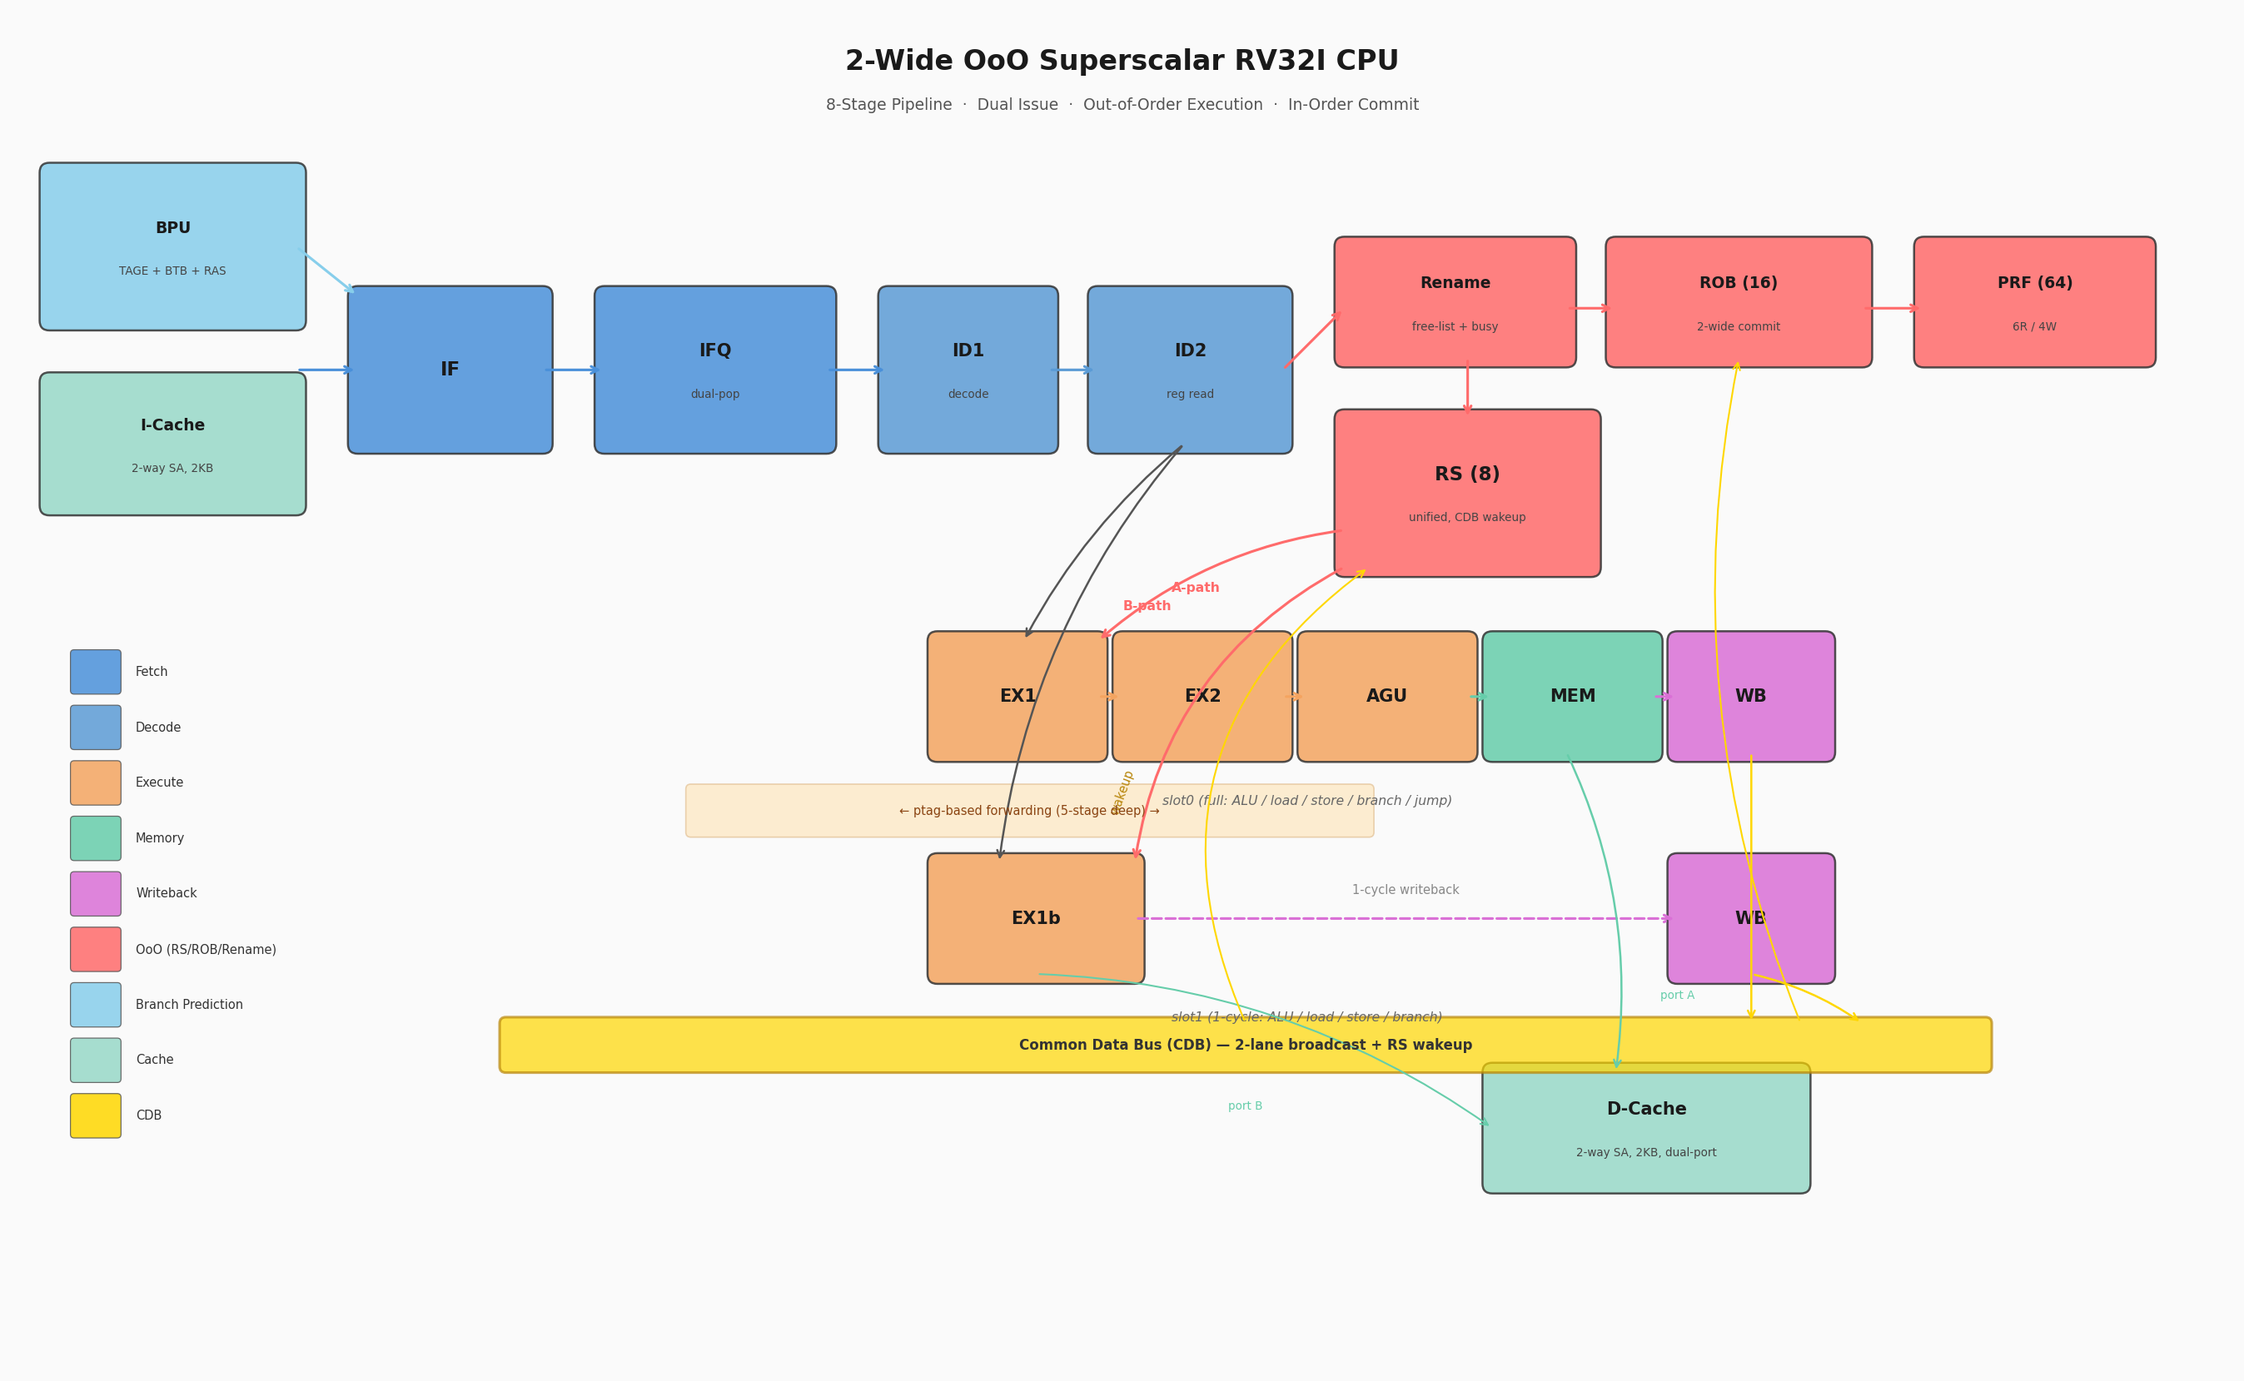
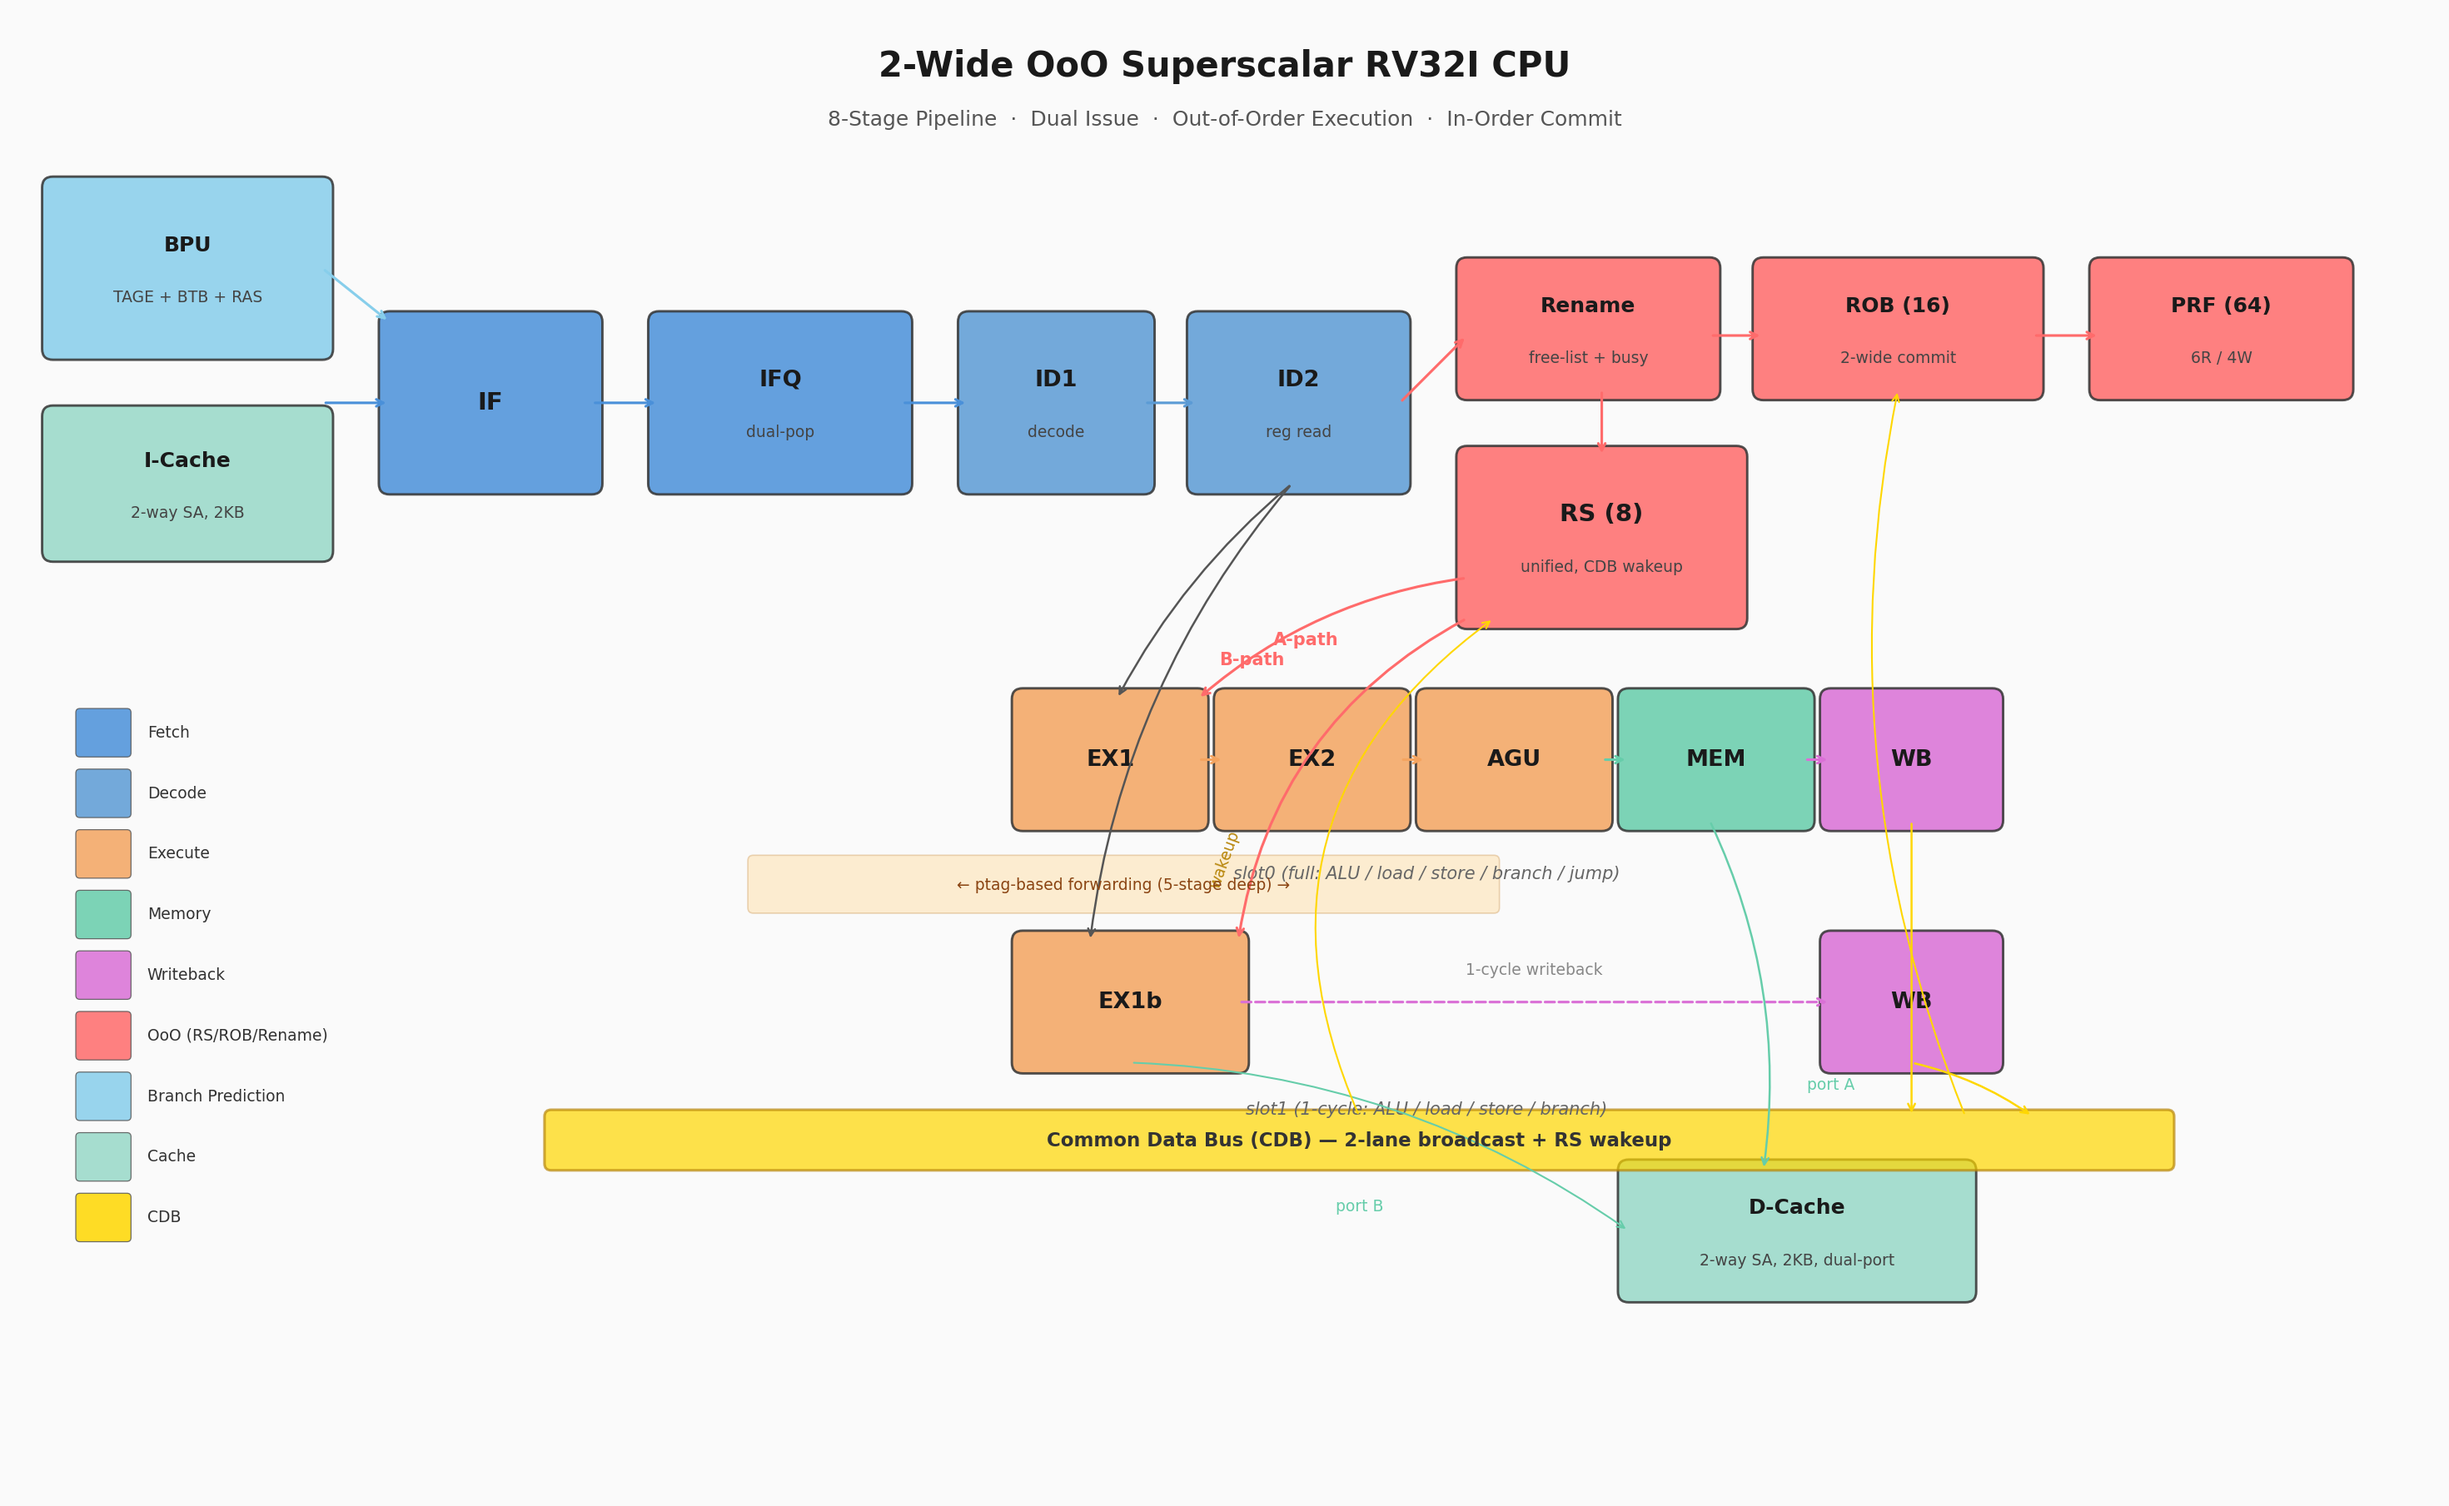
docs: increase diagram font sizes for readability

diff --git a/tools/gen_arch_diagram.py b/tools/gen_arch_diagram.py
@@ -8,7 +8,7 @@ import matplotlib.patches as mpatches
 from matplotlib.patches import FancyBboxPatch, FancyArrowPatch
 
 def draw():
-    fig, ax = plt.subplots(1, 1, figsize=(18, 11), dpi=150)
+    fig, ax = plt.subplots(1, 1, figsize=(20, 12), dpi=150)
     ax.set_xlim(0, 18)
     ax.set_ylim(0, 11)
     ax.set_aspect('equal')
@@ -27,15 +27,15 @@ def draw():
     C_CDB    = '#FFD700'   # gold
     C_LIGHT  = '#F0F0F0'
 
-    def box(x, y, w, h, label, color, fontsize=9, sublabel=None, alpha=0.85):
+    def box(x, y, w, h, label, color, fontsize=12, sublabel=None, alpha=0.85):
         rect = FancyBboxPatch((x, y), w, h, boxstyle="round,pad=0.08",
-                              facecolor=color, edgecolor='#333', linewidth=1.2, alpha=alpha)
+                              facecolor=color, edgecolor='#333', linewidth=1.4, alpha=alpha)
         ax.add_patch(rect)
         if sublabel:
-            ax.text(x + w/2, y + h/2 + 0.15, label, ha='center', va='center',
+            ax.text(x + w/2, y + h/2 + 0.17, label, ha='center', va='center',
                     fontsize=fontsize, fontweight='bold', color='#1a1a1a')
-            ax.text(x + w/2, y + h/2 - 0.2, sublabel, ha='center', va='center',
-                    fontsize=6.5, color='#444')
+            ax.text(x + w/2, y + h/2 - 0.22, sublabel, ha='center', va='center',
+                    fontsize=9, color='#444')
         else:
             ax.text(x + w/2, y + h/2, label, ha='center', va='center',
                     fontsize=fontsize, fontweight='bold', color='#1a1a1a')
@@ -54,25 +54,25 @@ def draw():
     # Title
     # ============================================================
     ax.text(9, 10.6, '2-Wide OoO Superscalar RV32I CPU', ha='center', va='center',
-            fontsize=16, fontweight='bold', color='#1a1a1a')
-    ax.text(9, 10.25, '8-Stage Pipeline  ·  Dual Issue  ·  Out-of-Order Execution  ·  In-Order Commit',
-            ha='center', va='center', fontsize=9, color='#555')
+            fontsize=20, fontweight='bold', color='#1a1a1a')
+    ax.text(9, 10.2, '8-Stage Pipeline  ·  Dual Issue  ·  Out-of-Order Execution  ·  In-Order Commit',
+            ha='center', va='center', fontsize=12, color='#555')
 
     # ============================================================
     # Front-end (top row)
     # ============================================================
     # BPU
-    box(0.3, 8.5, 2.0, 1.2, 'BPU', C_PRED, 9, 'TAGE + BTB + RAS')
+    box(0.3, 8.5, 2.0, 1.2, 'BPU', C_PRED, 12, 'TAGE + BTB + RAS')
     # I-Cache
-    box(0.3, 7.0, 2.0, 1.0, 'I-Cache', C_CACHE, 9, '2-way SA, 2KB')
+    box(0.3, 7.0, 2.0, 1.0, 'I-Cache', C_CACHE, 12, '2-way SA, 2KB')
     # IF
-    box(2.8, 7.5, 1.5, 1.2, 'IF', C_FETCH, 11)
+    box(2.8, 7.5, 1.5, 1.2, 'IF', C_FETCH, 14)
     # IFQ
-    box(4.8, 7.5, 1.8, 1.2, 'IFQ', C_FETCH, 10, 'dual-pop')
+    box(4.8, 7.5, 1.8, 1.2, 'IFQ', C_FETCH, 13, 'dual-pop')
     # ID1
-    box(7.1, 7.5, 1.3, 1.2, 'ID1', C_DECODE, 10, 'decode')
+    box(7.1, 7.5, 1.3, 1.2, 'ID1', C_DECODE, 13, 'decode')
     # ID2
-    box(8.8, 7.5, 1.5, 1.2, 'ID2', C_DECODE, 10, 'reg read')
+    box(8.8, 7.5, 1.5, 1.2, 'ID2', C_DECODE, 13, 'reg read')
 
     # Arrows: front-end flow
     arrow(2.3, 8.1, 2.8, 8.1, C_FETCH)    # I$ → IF
@@ -85,34 +85,34 @@ def draw():
     # Rename / ROB / RS (middle section)
     # ============================================================
     # Rename
-    box(10.8, 8.2, 1.8, 0.9, 'Rename', C_OOO, 9, 'free-list + busy')
+    box(10.8, 8.2, 1.8, 0.9, 'Rename', C_OOO, 12, 'free-list + busy')
     arrow(10.3, 8.1, 10.8, 8.6, C_OOO)  # ID2 → Rename
 
     # ROB
-    box(13.0, 8.2, 2.0, 0.9, 'ROB (16)', C_OOO, 9, '2-wide commit')
+    box(13.0, 8.2, 2.0, 0.9, 'ROB (16)', C_OOO, 12, '2-wide commit')
     arrow(12.6, 8.6, 13.0, 8.6, C_OOO)  # Rename → ROB
 
     # PRF
-    box(15.5, 8.2, 1.8, 0.9, 'PRF (64)', C_OOO, 9, '6R / 4W')
+    box(15.5, 8.2, 1.8, 0.9, 'PRF (64)', C_OOO, 12, '6R / 4W')
     arrow(15.0, 8.6, 15.5, 8.6, C_OOO)  # ROB → PRF
 
     # RS
-    box(10.8, 6.5, 2.0, 1.2, 'RS (8)', C_OOO, 11, 'unified, CDB wakeup')
+    box(10.8, 6.5, 2.0, 1.2, 'RS (8)', C_OOO, 14, 'unified, CDB wakeup')
     arrow(11.8, 8.2, 11.8, 7.7, C_OOO)  # Rename → RS (down)
 
     # ============================================================
     # Slot0 pipeline (middle-left)
     # ============================================================
     s0y = 5.0
-    box(7.5, s0y, 1.3, 0.9, 'EX1', C_EX, 10)
-    box(9.0, s0y, 1.3, 0.9, 'EX2', C_EX, 10)
-    box(10.5, s0y, 1.3, 0.9, 'AGU', C_EX, 10)
-    box(12.0, s0y, 1.3, 0.9, 'MEM', C_MEM, 10)
-    box(13.5, s0y, 1.2, 0.9, 'WB', C_WB, 10)
+    box(7.5, s0y, 1.3, 0.9, 'EX1', C_EX, 13)
+    box(9.0, s0y, 1.3, 0.9, 'EX2', C_EX, 13)
+    box(10.5, s0y, 1.3, 0.9, 'AGU', C_EX, 13)
+    box(12.0, s0y, 1.3, 0.9, 'MEM', C_MEM, 13)
+    box(13.5, s0y, 1.2, 0.9, 'WB', C_WB, 13)
 
     # slot0 label
     ax.text(10.5, 4.6, 'slot0 (full: ALU / load / store / branch / jump)',
-            ha='center', va='center', fontsize=7.5, color='#666', style='italic')
+            ha='center', va='center', fontsize=10, color='#666', style='italic')
 
     # Arrows: slot0 flow
     arrow(8.8, 5.45, 9.0, 5.45, C_EX)
@@ -121,7 +121,7 @@ def draw():
     arrow(13.3, 5.45, 13.5, 5.45, C_WB)
 
     # RS A-path → slot0 EX1
-    ax.text(9.6, 6.3, 'A-path', ha='center', fontsize=7.5, color=C_OOO, fontweight='bold')
+    ax.text(9.6, 6.3, 'A-path', ha='center', fontsize=10, color=C_OOO, fontweight='bold')
     curved_arrow(10.8, 6.8, 8.8, 5.9, C_OOO, 1.5, 0.15)
 
     # ID2 → slot0 EX1 (in-order)
@@ -131,21 +131,21 @@ def draw():
     # Slot1 pipeline (below slot0)
     # ============================================================
     s1y = 3.2
-    box(7.5, s1y, 1.6, 0.9, 'EX1b', C_EX, 10)
-    box(13.5, s1y, 1.2, 0.9, 'WB', C_WB, 10)
+    box(7.5, s1y, 1.6, 0.9, 'EX1b', C_EX, 13)
+    box(13.5, s1y, 1.2, 0.9, 'WB', C_WB, 13)
 
     # slot1 label
     ax.text(10.5, 2.85, 'slot1 (1-cycle: ALU / load / store / branch)',
-            ha='center', va='center', fontsize=7.5, color='#666', style='italic')
+            ha='center', va='center', fontsize=10, color='#666', style='italic')
 
     # dotted line from EX1b to WB (1-cycle path)
     ax.annotate('', xy=(13.5, 3.65), xytext=(9.1, 3.65),
                 arrowprops=dict(arrowstyle='->', color=C_WB, lw=1.5,
                                 linestyle='dashed'))
-    ax.text(11.3, 3.85, '1-cycle writeback', ha='center', fontsize=7, color='#888')
+    ax.text(11.3, 3.85, '1-cycle writeback', ha='center', fontsize=9, color='#888')
 
     # RS B-path → slot1 EX1b
-    ax.text(9.2, 6.15, 'B-path', ha='center', fontsize=7.5, color=C_OOO, fontweight='bold')
+    ax.text(9.2, 6.15, 'B-path', ha='center', fontsize=10, color=C_OOO, fontweight='bold')
     curved_arrow(10.8, 6.5, 9.1, 4.1, C_OOO, 1.5, 0.25)
 
     # ID2 → slot1 EX1b (in-order paired)
@@ -154,13 +154,13 @@ def draw():
     # ============================================================
     # D-Cache
     # ============================================================
-    box(12.0, 1.5, 2.5, 0.9, 'D-Cache', C_CACHE, 10, '2-way SA, 2KB, dual-port')
+    box(12.0, 1.5, 2.5, 0.9, 'D-Cache', C_CACHE, 12, '2-way SA, 2KB, dual-port')
     # MEM → D$
     curved_arrow(12.6, s0y, 13.0, 2.4, C_MEM, 1.2, -0.15)
     # EX1b → D$ (slot1 load/store)
     curved_arrow(8.3, s1y, 12.0, 1.95, C_MEM, 1.0, -0.15)
-    ax.text(10.0, 2.1, 'port B', ha='center', fontsize=6.5, color=C_MEM)
-    ax.text(13.5, 3.0, 'port A', ha='center', fontsize=6.5, color=C_MEM)
+    ax.text(10.0, 2.1, 'port B', ha='center', fontsize=9, color=C_MEM)
+    ax.text(13.5, 3.0, 'port A', ha='center', fontsize=9, color=C_MEM)
 
     # ============================================================
     # CDB (bottom broadcast bus)
@@ -171,7 +171,7 @@ def draw():
                           facecolor=C_CDB, edgecolor='#B8860B', linewidth=1.5, alpha=0.7)
     ax.add_patch(rect)
     ax.text(10.0, cdb_y + 0.72, 'Common Data Bus (CDB) — 2-lane broadcast + RS wakeup',
-            ha='center', va='center', fontsize=8, fontweight='bold', color='#333')
+            ha='center', va='center', fontsize=11, fontweight='bold', color='#333')
 
     # WB slot0 → CDB
     curved_arrow(14.1, s0y, 14.1, cdb_y + 0.9, C_CDB, 1.2, 0)
@@ -180,7 +180,7 @@ def draw():
 
     # CDB → RS (wakeup, going up)
     curved_arrow(10.0, cdb_y + 0.9, 11.0, 6.5, C_CDB, 1.0, -0.4)
-    ax.text(9.0, 4.5, 'wakeup', ha='center', fontsize=7, color='#B8860B', rotation=70)
+    ax.text(9.0, 4.5, 'wakeup', ha='center', fontsize=9, color='#B8860B', rotation=70)
 
     # CDB → ROB (done)
     curved_arrow(14.5, cdb_y + 0.9, 14.0, 8.2, C_CDB, 1.0, -0.15)
@@ -192,7 +192,7 @@ def draw():
                               facecolor='#FFE4B5', edgecolor='#DEB887', linewidth=0.8, alpha=0.6)
     ax.add_patch(fwd_rect)
     ax.text(8.25, 4.52, '← ptag-based forwarding (5-stage deep) →',
-            ha='center', va='center', fontsize=7, color='#8B4513')
+            ha='center', va='center', fontsize=9, color='#8B4513')
 
     # ============================================================
     # Legend
@@ -214,7 +214,7 @@ def draw():
                                     boxstyle="round,pad=0.03",
                                     facecolor=color, edgecolor='#555', linewidth=0.6, alpha=0.85)
         ax.add_patch(r)
-        ax.text(lx + 0.5, ly - i*0.45 + 0.15, label, va='center', fontsize=7, color='#333')
+        ax.text(lx + 0.5, ly - i*0.45 + 0.15, label, va='center', fontsize=9, color='#333')
 
     plt.tight_layout(pad=0.5)
     out = 'docs/cpu_architecture.png'
